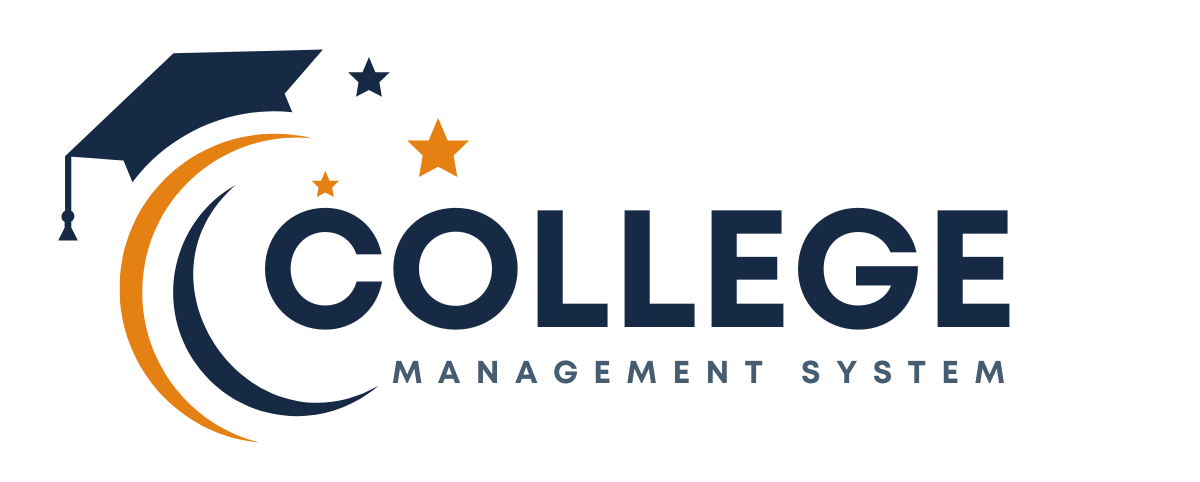
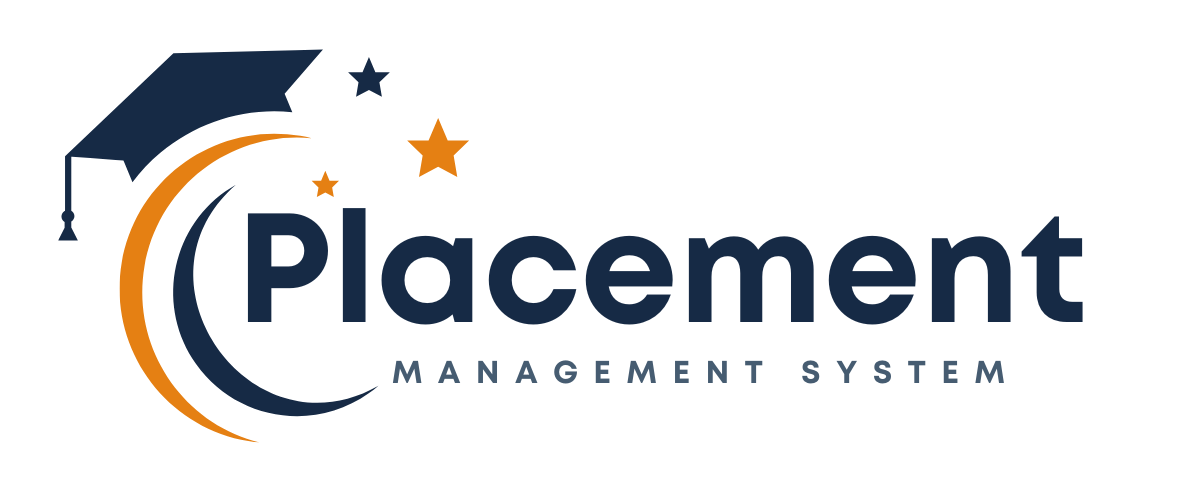
content update

Changed region(s): [[0.185, 0.4046, 0.925, 0.6846]]

diff --git a/index.html b/index.html
@@ -5,14 +5,12 @@
     <link rel="icon" type="image/svg+xml" href="/clogo.png" />
     <meta name="viewport" content="width=device-width, initial-scale=1.0" />
 
-    <title>
-      College Placement Management System | Streamline Campus Recruiting
-    </title>
+    <title>Placement Management System | Streamline Campus Recruiting</title>
 
     <!-- Basic SEO -->
     <meta
       name="description"
-      content="Manage and streamline your college placement process efficiently with our intuitive College Placement Management System. Track applications, jobs, and student progress all in one place."
+      content="Manage and streamline your college placement process efficiently with our intuitive Placement Management System. Track applications, jobs, and student progress all in one place."
     />
     <meta
       name="keywords"
@@ -21,7 +19,7 @@
     <meta name="author" content="Your Name or Organization" />
 
     <!-- Open Graph / Facebook -->
-    <meta property="og:title" content="College Placement Management System" />
+    <meta property="og:title" content="Placement Management System" />
     <meta
       property="og:description"
       content="Streamline campus recruiting and manage student placements with ease."
@@ -32,7 +30,7 @@
 
     <!-- Twitter -->
     <meta name="twitter:card" content="summary_large_image" />
-    <meta name="twitter:title" content="College Placement Management System" />
+    <meta name="twitter:title" content="Placement Management System" />
     <meta
       name="twitter:description"
       content="Manage college placements, job applications, and student progress seamlessly."

diff --git a/src/components/Home/HeroSection.jsx b/src/components/Home/HeroSection.jsx
@@ -33,10 +33,13 @@ const HeroSection = () => {
       <div className="heroSection">
         <div className="container">
           <div className="title">
-            <h2>Welcome To College Placement Management System</h2>
+            <h2>Welcome To Placement Management System</h2>
             <h3>A Way To Your Destiny</h3>
             <p>
-            Placement Management System manages student information in the college with regard to placement. It improves existing system .It has the facility of maintaining the details of the student, thereby reducing the manual work. 
+              Placement Management System manages student information in the
+              college with regard to placement. It improves existing system .It
+              has the facility of maintaining the details of the student,
+              thereby reducing the manual work.
             </p>
           </div>
           <div className="image">

diff --git a/src/components/Layout/Footer.jsx b/src/components/Layout/Footer.jsx
@@ -8,7 +8,7 @@ const Footer = () => {
   const { isAuthorized } = useContext(Context);
   return (
     <footer className={isAuthorized ? "footerShow" : "footerHide"}>
-      <div>&copy; All Rights Reserved By College Management</div>
+      <div>&copy; All Rights Reserved By Placement Management System</div>
       <div>
         <Link to={""} target="_blank">
           <FaFacebookF />

diff --git a/src/App.css b/src/App.css
@@ -1209,8 +1209,8 @@ nav .container {
   justify-content: space-between;
 }
 nav .container .logo {
-  width: 120px;
-  height: 120px;
+  width: 160px;
+  height: 80px;
 }
 nav .container .logo img {
   width: 100%;
